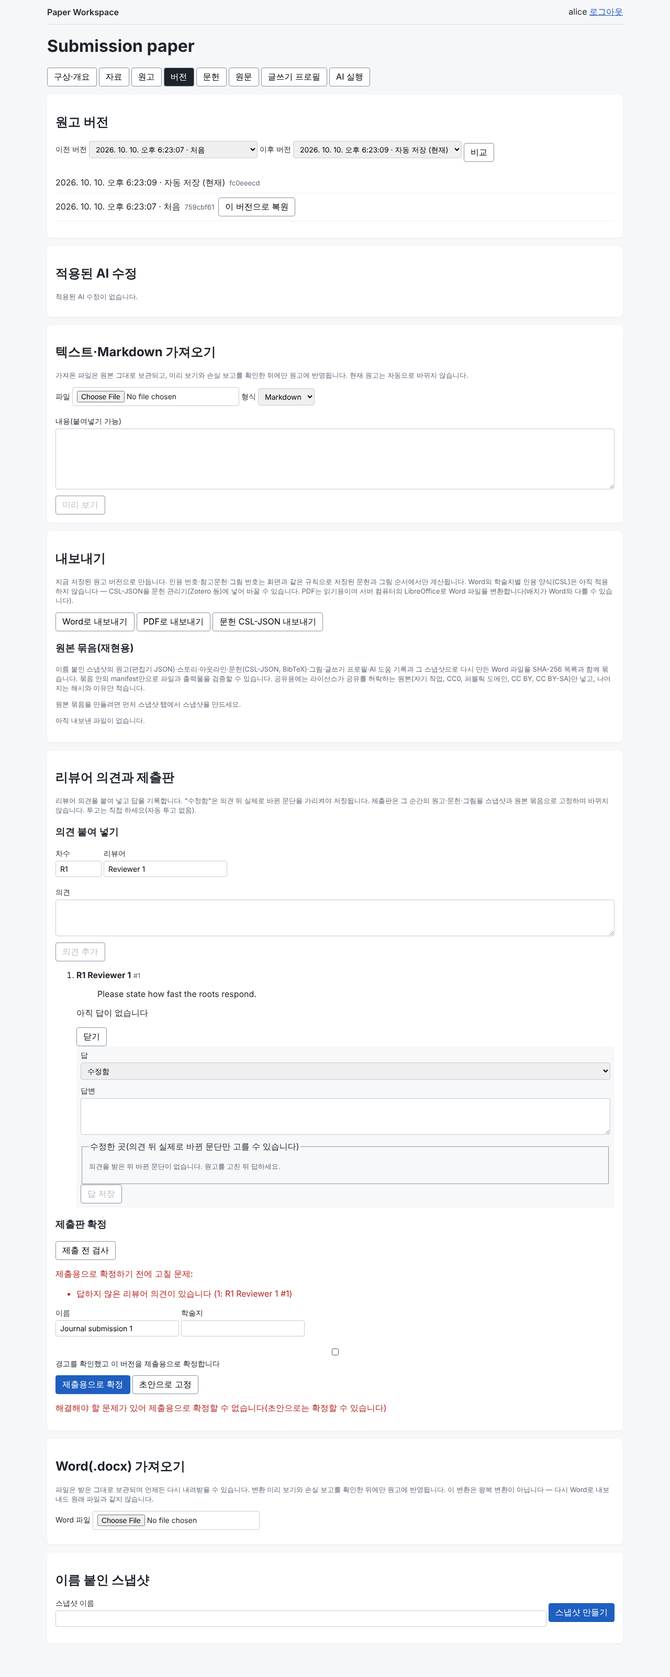
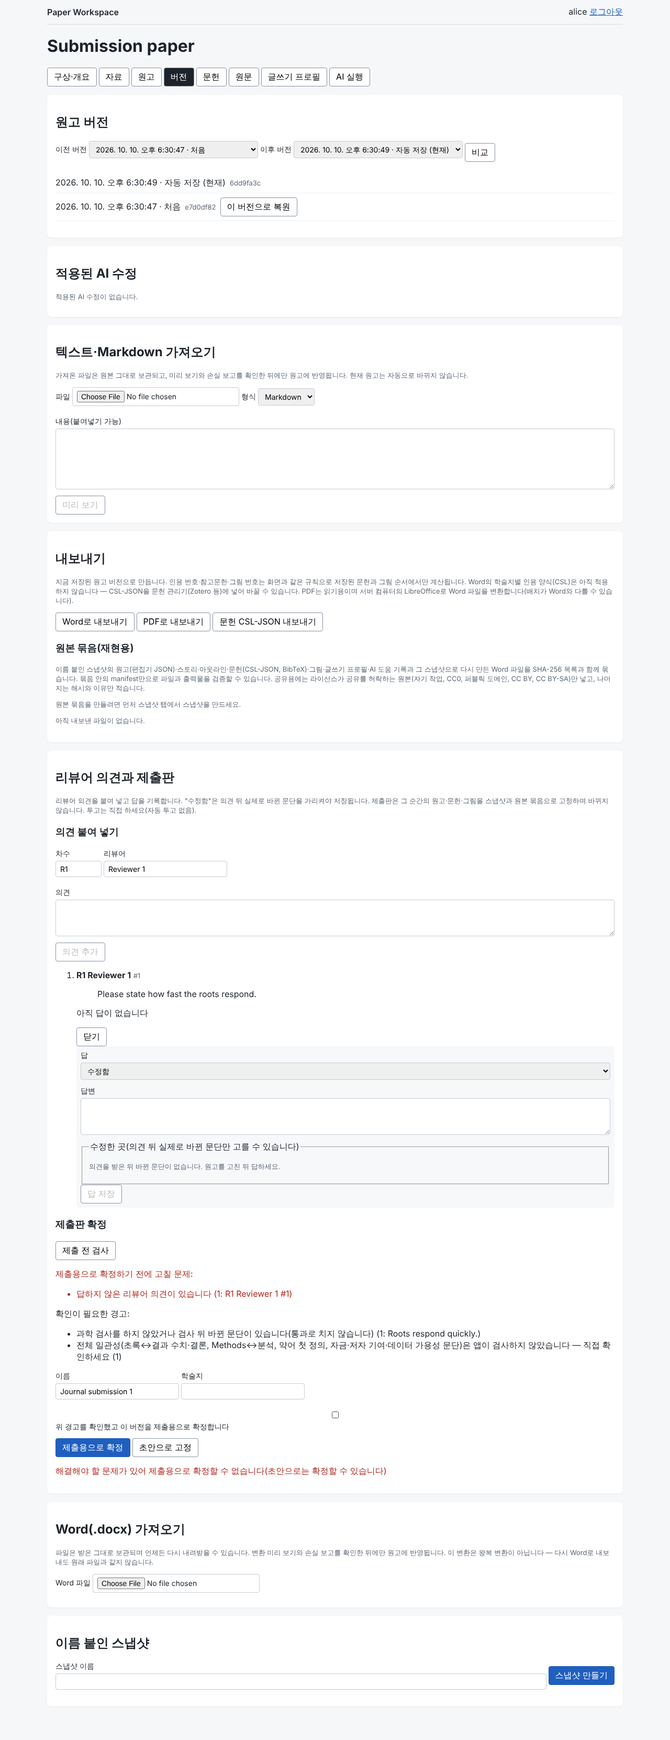
PW-058: apply review (m1 unchecked paragraphs, m2 placeholders and consistency note, m3 per-kind confirmation, n1 single-line names)
- Every paragraph never checked, or checked on other wording, gives a
  scientific_check_not_run warning; UNKNOWN on the same wording a warning.
- Placeholders (TODO, TBD, FIXME, ???, [needs_input], [citation needed],
  [?]) block submission-ready; "XX" warns; the whole-document consistency
  the app does not check is always stated (consistency_not_checked).
- confirm_warnings is the list of warning kinds the owner saw; any other
  warning at the final gate is refused (CONFIRM_WARNINGS, unconfirmed).
- Labels, targets, rounds and reviewers are single lines; the response
  table escapes the heading.

Claude-Session: https://claude.ai/code/session_01EeZdb6b7qndTXCACBK8Dee

diff --git a/packages/domain/src/submissions/index.ts b/packages/domain/src/submissions/index.ts
@@ -30,17 +30,19 @@ export interface Link { revision_id: string; block_id: string; change: 'changed'
 // ---- blocks of a stored revision -------------------------------------------------------------------------
 type Node = { type?: string; text?: string; attrs?: Record<string, unknown>; content?: Node[] };
 const textOf = (n: Node): string => (n.type === 'text' ? n.text ?? '' : n.type === 'citation' ? '[cite]' : n.type === 'figure_ref' ? '[fig]' : (n.content ?? []).map(textOf).join(n.type === 'table_row' ? ' | ' : ''));
-interface Block { hash: string; text: string; heading: string | null }
+interface Block { hash: string; text: string; heading: string | null; paragraph: boolean }
 export function blocksOf(content: unknown): Map<string, Block> {
   const out = new Map<string, Block>();
   let heading: string | null = null;
   for (const b of ((content as Node)?.content ?? [])) {
     const id = b.attrs?.id;
     if (b.type === 'heading') heading = textOf(b).trim() || heading;
-    if (typeof id === 'string') out.set(id, { hash: contentHash(b), text: textOf(b).trim(), heading: b.type === 'heading' ? textOf(b).trim() : heading });
+    if (typeof id === 'string') out.set(id, { hash: contentHash(b), text: textOf(b).trim(), heading: b.type === 'heading' ? textOf(b).trim() : heading, paragraph: b.type === 'paragraph' });
   }
   return out;
 }
+const PLACEHOLDER = /\bTODO\b|\bTBD\b|\bFIXME\b|\?\?\?+|\[needs_input\]|\[citation needed\]|\[\s*\?\s*\]/gi;
+const XX = /(?<![A-Za-z])XX(?![A-Za-z])/;
 const clip = (s: string, n = 300) => (s.length > n ? `${s.slice(0, n)}…` : s);
 
 async function revisionContent(db: Queryable, paperId: string, documentId: string, revisionId: string): Promise<unknown | null> {
@@ -74,11 +76,18 @@ const label = (v: unknown, field: string, max: number) => {
   if (typeof v !== 'string' || !v.trim() || v.length > max || !storable(v)) throw new DomainError('INVALID', `${field} must be 1–${max} characters`, field);
   return v.trim();
 };
+// a name on one line (labels end up in headings and table cells; review n1)
+const line = (v: unknown, field: string, max: number) => {
+  const x = label(v, field, max);
+  // eslint-disable-next-line no-control-regex -- control characters are refused on purpose
+  if (/[\u0000-\u001f\u007f\u2028\u2029]/.test(x)) throw new DomainError('INVALID', `${field} must be a single line`, field);
+  return x;
+};
 
 export async function addComment(pool: TxPool, a: { paperId: string; ownerId: string; body: unknown }): Promise<Comment> {
   const b = (a.body && typeof a.body === 'object' ? a.body : {}) as Record<string, unknown>;
-  const round = label(b.round ?? 'R1', 'round', 40);
-  const reviewer = label(b.reviewer, 'reviewer', 80);
+  const round = line(b.round ?? 'R1', 'round', 40);
+  const reviewer = line(b.reviewer, 'reviewer', 80);
   const text = label(b.text, 'text', 20000);
   return inTransaction(pool, async (tx) => {
     await tx.query("SELECT set_config('pw.actor', $1, true)", [`owner:${a.ownerId}`]);
@@ -194,6 +203,10 @@ const NOTE: Record<string, string> = {
   open_scientific_finding: '결정하지 않은 과학 검토 지적이 그대로인 문단에 있습니다',
   open_finding_stale: '결정하지 않은 검토 지적이 있던 문단이 그 뒤 바뀌었습니다',
   open_writing_finding: '결정하지 않은 글쓰기 검토 지적이 있습니다',
+  scientific_check_not_run: '과학 검사를 하지 않았거나 검사 뒤 바뀐 문단이 있습니다(통과로 치지 않습니다)',
+  placeholder_text: '채워 넣지 않은 자리표시(TODO, TBD, ???, [needs_input] 등)가 남아 있습니다',
+  placeholder_like_xx: '"XX"가 있습니다 — 채워 넣을 자리인지 확인하세요(염색체 표기 등이면 그대로 두세요)',
+  consistency_not_checked: '전체 일관성(초록↔결과 수치·결론, Methods↔분석, 약어 첫 정의, 자금·저자 기여·데이터 가용성 문단)은 앱이 검사하지 않았습니다 — 직접 확인하세요',
   archive_incomplete: '원본 묶음에 빠진 원본이 있습니다',
   archive_unverified: '원본 묶음이 자체 검증을 통과하지 못했습니다',
 };
@@ -225,15 +238,23 @@ export async function checks(db: Queryable, a: { paperId: string; documentId: st
     if (!cache.has(revisionId)) cache.set(revisionId, blocksOf(await revisionContent(db, a.paperId, a.documentId, revisionId)));
     return cache.get(revisionId)!.get(blockId)?.hash ?? null;
   };
-  const runs = (await db.query<{ block_id: string; revision_id: string; status: string }>(
-    `SELECT DISTINCT ON (block_id) block_id, revision_id, status FROM scientific_check_runs WHERE paper_id = $1 AND document_id = $2 ORDER BY block_id, created_at DESC, id DESC`, [a.paperId, a.documentId])).rows;
-  for (const r of runs) {
-    const cur = now.get(r.block_id);
-    if (!cur || (r.status !== 'FAILED' && r.status !== 'UNKNOWN')) continue;
-    const same = (await asRead(r.revision_id, r.block_id)) === cur.hash;
+  const runs = new Map((await db.query<{ block_id: string; revision_id: string; status: string }>(
+    `SELECT DISTINCT ON (block_id) block_id, revision_id, status FROM scientific_check_runs WHERE paper_id = $1 AND document_id = $2 ORDER BY block_id, created_at DESC, id DESC`, [a.paperId, a.documentId])).rows.map((r) => [r.block_id, r]));
+  // every paragraph as it stands: a check that failed on this wording blocks; never checked, or checked on
+  // other wording, or undecided, is not a pass (review m1)
+  for (const [id, cur] of now) {
+    if (!cur.paragraph || !cur.text) continue;
+    const r = runs.get(id);
     const where = clip(cur.text, 80);
-    if (r.status === 'FAILED') (same ? blocking : warnings).add(same ? 'scientific_check_failed' : 'scientific_check_stale', where);
-    else if (same) warnings.add('scientific_check_unknown', where);
+    const same = r ? (await asRead(r.revision_id, id)) === cur.hash : false;
+    if (r?.status === 'FAILED') (same ? blocking : warnings).add(same ? 'scientific_check_failed' : 'scientific_check_stale', where);
+    else if (r?.status === 'UNKNOWN' && same) warnings.add('scientific_check_unknown', where);
+    else if (!r || !same) warnings.add('scientific_check_not_run', where);
+  }
+  // text left to fill in (review m2)
+  for (const cur of now.values()) {
+    for (const m of cur.text.match(PLACEHOLDER) ?? []) blocking.add('placeholder_text', m);
+    if (XX.test(cur.text)) warnings.add('placeholder_like_xx', clip(cur.text, 80));
   }
   const findings = (await db.query<{ kind: string; block_id: string; revision_id: string; quote: string }>(
     `SELECT f.kind, r.block_id, r.revision_id, f.quote FROM review_findings f JOIN review_runs r ON r.id = f.run_id AND r.paper_id = f.paper_id
@@ -245,6 +266,8 @@ export async function checks(db: Queryable, a: { paperId: string; documentId: st
     if (!same) warnings.add('open_finding_stale', clip(f.quote, 80));
     else (f.kind === 'scientific' ? blocking : warnings).add(f.kind === 'scientific' ? 'open_scientific_finding' : 'open_writing_finding', clip(f.quote, 80));
   }
+  // what the app does not check is said, every time (spec 10 "전체 일관성 검사"; review m2)
+  warnings.add('consistency_not_checked');
   return { blocking: blocking.list(), warnings: warnings.list() };
 }
 
@@ -272,14 +295,17 @@ export async function freezeSubmission(pool: TxPool, a: { paperId: string; owner
   if (b.intent !== 'freeze_submission') throw new DomainError('INVALID', 'freezing needs the explicit intent "freeze_submission"', 'intent');
   if (b.status !== 'draft' && b.status !== 'submission_ready') throw new DomainError('INVALID', 'status must be draft or submission_ready', 'status');
   const ready = b.status === 'submission_ready';
-  const name = label(b.label, 'label', 200);
-  const target = b.target === undefined || b.target === null ? null : label(b.target, 'target', 200);
-  if (b.confirm_warnings !== undefined && typeof b.confirm_warnings !== 'boolean') throw new DomainError('INVALID', 'confirm_warnings must be true or false', 'confirm_warnings');
+  const name = line(b.label, 'label', 200);
+  const target = b.target === undefined || b.target === null ? null : line(b.target, 'target', 200);
+  // the warning kinds the owner saw and confirmed; a warning that was not shown is not confirmed (review m3)
+  const confirmed = b.confirm_warnings ?? [];
+  if (!Array.isArray(confirmed) || confirmed.length > 50 || confirmed.some((k) => typeof k !== 'string' || k.length > 60)) throw new DomainError('INVALID', 'confirm_warnings must be the list of warning kinds the owner confirmed', 'confirm_warnings');
   const h = await head(pool, a.paperId, b.document_id);
   if (b.expected_revision_id !== h.revision_id) throw refuse('STALE', 'the manuscript changed since it was checked; check again', { head_revision_id: h.revision_id });
   const gate = (c: Checks) => {
     if (ready && c.blocking.length) throw refuse('NOT_SUBMISSION_READY', '해결해야 할 문제가 있어 제출용으로 확정할 수 없습니다(초안으로는 확정할 수 있습니다)', { blocking: c.blocking, warnings: c.warnings });
-    if (ready && c.warnings.length && b.confirm_warnings !== true) throw refuse('CONFIRM_WARNINGS', '경고를 확인해야 제출용으로 확정할 수 있습니다', { warnings: c.warnings });
+    const unseen = c.warnings.filter((w) => !(confirmed as string[]).includes(w.kind));
+    if (ready && unseen.length) throw refuse('CONFIRM_WARNINGS', '경고를 확인해야 제출용으로 확정할 수 있습니다', { warnings: c.warnings, unconfirmed: unseen.map((w) => w.kind) });
   };
   gate(await checks(pool, { paperId: a.paperId, documentId: h.document_id, content: h.content, report: await deps.render(h) }));
   // frozen: the snapshot pins the revisions; checked again on the archive's own render
@@ -324,8 +350,8 @@ export function responseTable(s: Submission): string {
     return `| ${r.position} | ${cell(`${r.round} ${r.reviewer}`)} | ${cell(r.comment)} | ${r.status ? STATUS_KO[r.status] ?? r.status : '답 없음'} | ${cell(r.response ?? '')} | ${cell(where)} |`;
   });
   return [
-    `# ${s.label}`, '',
-    `- 상태: ${s.status === 'submission_ready' ? '제출용 확정' : '초안'}${s.target ? ` · 대상: ${s.target}` : ''}`,
+    `# ${cell(s.label)}`, '',
+    `- 상태: ${s.status === 'submission_ready' ? '제출용 확정' : '초안'}${s.target ? ` · 대상: ${cell(s.target)}` : ''}`,
     `- 원고 버전: ${s.revision_id} · DOCX SHA-256: ${s.docx_sha256}`, '',
     '| # | 리뷰어 | 의견 | 답 | 답변 | 수정한 곳 |', '|---|---|---|---|---|---|', ...rows, '',
   ].join('\n');

diff --git a/tests/tasks/PW-058/submission.int.test.ts b/tests/tasks/PW-058/submission.int.test.ts
@@ -86,6 +86,8 @@ const respond = (w: W, commentId: string, b: Record<string, unknown>) => call('P
 const check = (w: W) => call('POST', `/api/papers/${w.paperId}/submissions/check`, { document_id: w.documentId });
 const freeze = (w: W, o: Record<string, unknown> = {}) => call('POST', `/api/papers/${w.paperId}/submissions`, { intent: 'freeze_submission', document_id: w.documentId, expected_revision_id: w.head, status: 'submission_ready', label: 'Journal of Plant Studies, first submission', target: 'Journal of Plant Studies', ...o });
 const kinds = (xs: { kind: string }[]) => xs.map((x) => x.kind);
+// submission-ready with exactly the warnings the check showed confirmed
+const freezeReady = async (w: W, o: Record<string, unknown> = {}) => freeze(w, { confirm_warnings: kinds((await check(w)).json().warnings), ...o });
 
 describe('TST-058A: responses tied to real edits; the frozen submission never changes', () => {
   test('a comment records the revision it was made on; "addressed" needs a changed block in a later revision', async () => {
@@ -138,7 +140,7 @@ describe('TST-058A: responses tied to real edits; the frozen submission never ch
     await save(w, body(w, 'Roots respond within two hours'));
     expect((await respond(w, c.id, { status: 'addressed', text: 'We now give the timing.', links: [{ revision_id: w.head, block_id: w.P1 }] })).statusCode).toBe(201);
     const frozenHead = w.head;
-    const r = await freeze(w);
+    const r = await freezeReady(w);
     expect(r.statusCode, r.body).toBe(201);
     const s = r.json();
     expect(s).toMatchObject({ status: 'submission_ready', revision_id: frozenHead, document_id: w.documentId, label: 'Journal of Plant Studies, first submission', target: 'Journal of Plant Studies', checks: { blocking: [] } });
@@ -225,21 +227,55 @@ describe('TST-058B: never "changed" for unchanged text; never submission-ready w
     expect(kinds(k.blocking)).toContain('open_scientific_finding');
   });
 
-  test('warnings need the owner\'s confirmation; a stale expected revision, a missing intent or another owner are refused', async () => {
+  test('warnings need the owner\'s confirmation of each kind shown; a stale expected revision, a missing intent or another owner are refused', async () => {
     const w = await paper({ year: null }); // a reference without a year: a warning, not a blocker
     const k = (await check(w)).json();
     expect(k.blocking).toEqual([]);
-    expect(kinds(k.warnings)).toContain('incomplete_reference');
+    expect(kinds(k.warnings)).toEqual(expect.arrayContaining(['incomplete_reference', 'scientific_check_not_run', 'consistency_not_checked']));
     const r = await freeze(w);
     expect(r.statusCode).toBe(409);
     expect(r.json()).toMatchObject({ reason: 'CONFIRM_WARNINGS', warnings: expect.arrayContaining([expect.objectContaining({ kind: 'incomplete_reference' })]) });
-    expect((await freeze(w, { expected_revision_id: randomUUID(), confirm_warnings: true })).json()).toMatchObject({ reason: 'STALE' });
-    expect((await freeze(w, { intent: undefined, confirm_warnings: true })).statusCode).toBe(422);
-    expect((await freeze(w, { status: 'final', confirm_warnings: true })).statusCode).toBe(422);
-    expect((await call('POST', `/api/papers/${w.paperId}/submissions`, { intent: 'freeze_submission', document_id: w.documentId, expected_revision_id: w.head, status: 'submission_ready', label: 'x', confirm_warnings: true }, 'bob')).statusCode).toBe(404);
-    const ok = await freeze(w, { confirm_warnings: true });
+    // review m3: confirming some kinds is not confirming all; a blanket "yes" is not accepted
+    const part = await freeze(w, { confirm_warnings: ['incomplete_reference'] });
+    expect(part.statusCode).toBe(409);
+    expect(part.json().unconfirmed).toEqual(expect.arrayContaining(['scientific_check_not_run', 'consistency_not_checked']));
+    expect((await freeze(w, { confirm_warnings: true })).statusCode).toBe(422);
+    const all = kinds(k.warnings);
+    expect((await freeze(w, { expected_revision_id: randomUUID(), confirm_warnings: all })).json()).toMatchObject({ reason: 'STALE' });
+    expect((await freeze(w, { intent: undefined, confirm_warnings: all })).statusCode).toBe(422);
+    expect((await freeze(w, { status: 'final', confirm_warnings: all })).statusCode).toBe(422);
+    // review n1: names are single lines
+    expect((await freeze(w, { label: 'R2\n\n| fake | row |', confirm_warnings: all })).statusCode).toBe(422);
+    expect((await call('POST', `/api/papers/${w.paperId}/submissions`, { intent: 'freeze_submission', document_id: w.documentId, expected_revision_id: w.head, status: 'submission_ready', label: 'x', confirm_warnings: all }, 'bob')).statusCode).toBe(404);
+    const ok = await freeze(w, { confirm_warnings: all });
     expect(ok.statusCode, ok.body).toBe(201);
     expect(ok.json()).toMatchObject({ status: 'submission_ready', checks: { blocking: [], warnings: expect.arrayContaining([expect.objectContaining({ kind: 'incomplete_reference' })]) }, confirmed_by: expect.any(String) });
+  });
+
+  test('review m1: a paragraph never checked, or checked on other wording, is not a pass', async () => {
+    const w = await paper();
+    const owner = (await pool.query('SELECT owner_id FROM paper_projects WHERE id = $1', [w.paperId])).rows[0].owner_id;
+    const notRun = async () => ((await check(w)).json().warnings as { kind: string; count: number }[]).find((x) => x.kind === 'scientific_check_not_run')?.count ?? 0;
+    expect(await notRun()).toBe(2); // both paragraphs
+    await pool.query(`INSERT INTO scientific_check_runs (paper_id, document_id, revision_id, block_id, gate_version, status, findings, created_by) VALUES ($1, $2, $3, $4, 'synthetic-1', 'VERIFIED', '[]', $5)`, [w.paperId, w.documentId, w.head, w.P1, owner]);
+    expect(await notRun()).toBe(1);
+    await save(w, body(w, 'Roots respond within two hours'));
+    expect(await notRun()).toBe(2); // checked on other wording
+    // an undecided check on other wording is not a pass either
+    await pool.query(`INSERT INTO scientific_check_runs (paper_id, document_id, revision_id, block_id, gate_version, status, findings, created_by) VALUES ($1, $2, $3, $4, 'synthetic-1', 'UNKNOWN', '[]', $5)`, [w.paperId, w.documentId, w.head, w.P2, owner]);
+    expect(kinds((await check(w)).json().warnings)).toContain('scientific_check_unknown');
+    await save(w, body(w, 'Roots respond within two hours', [], 'The second paragraph changed.'));
+    expect(await notRun()).toBe(2);
+  });
+
+  test('review m2: text left to fill in blocks; "XX" asks; the unchecked whole-document consistency is always said', async () => {
+    const w = await paper();
+    await save(w, body(w, 'Roots respond in TODO hours', [], 'XX patients were enrolled [needs_input].'));
+    const k = (await check(w)).json();
+    const p = (k.blocking as { kind: string; examples: string[] }[]).find((x) => x.kind === 'placeholder_text')!;
+    expect(p.examples).toEqual(expect.arrayContaining(['TODO', '[needs_input]']));
+    expect(kinds(k.warnings)).toEqual(expect.arrayContaining(['placeholder_like_xx', 'consistency_not_checked']));
+    expect((await freezeReady(w)).statusCode).toBe(409);
   });
 
   test('the database refuses a submission-ready row with a blocker', async () => {

diff --git a/apps/web/src/features/submission/SubmissionPanel.tsx b/apps/web/src/features/submission/SubmissionPanel.tsx
@@ -100,7 +100,8 @@ export function SubmissionPanel({ paperId, documentId, headRevisionId, canChange
     } finally { setBusy(false); await load(); }
   };
   const freeze = (status: 'draft' | 'submission_ready') => act(async () => {
-    await api('POST', `/api/papers/${paperId}/submissions`, { intent: 'freeze_submission', document_id: documentId, expected_revision_id: headRevisionId, status, label, target: target || null, confirm_warnings: confirm });
+    // only the warnings shown here are confirmed; any other one sends the owner back to look at it
+    await api('POST', `/api/papers/${paperId}/submissions`, { intent: 'freeze_submission', document_id: documentId, expected_revision_id: headRevisionId, status, label, target: target || null, confirm_warnings: confirm && checks ? checks.warnings.map((w) => w.kind) : [] });
     setChecks(null);
     setConfirm(false);
   });
@@ -147,7 +148,7 @@ export function SubmissionPanel({ paperId, documentId, headRevisionId, canChange
         <label>이름<input value={label} onChange={(e) => setLabel(e.target.value)} data-testid="submission-label" /></label>
         <label>학술지<input value={target} onChange={(e) => setTarget(e.target.value)} /></label>
       </div>
-      <label><input type="checkbox" checked={confirm} onChange={(e) => setConfirm(e.target.checked)} data-testid="confirm-warnings" /> 경고를 확인했고 이 버전을 제출용으로 확정합니다</label>
+      <label><input type="checkbox" checked={confirm} disabled={!checks || checks.warnings.length === 0} onChange={(e) => setConfirm(e.target.checked)} data-testid="confirm-warnings" /> 위 경고를 확인했고 이 버전을 제출용으로 확정합니다</label>
       <div className="toolbar">
         <button type="button" className="primary" disabled={busy || !canChange || !label.trim()} onClick={() => void freeze('submission_ready')}>제출용으로 확정</button>
         <button type="button" disabled={busy || !canChange || !label.trim()} onClick={() => void freeze('draft')}>초안으로 고정</button>

diff --git a/tests/tasks/PW-058/table.test.ts b/tests/tasks/PW-058/table.test.ts
@@ -21,7 +21,7 @@ describe('blocks and the response table', () => {
     expect(blocksOf(null).size).toBe(0);
   });
   test('the table escapes pipes and line breaks, says what was not answered and where a claimed change is missing', () => {
-    const s = { label: 'J1', target: 'Journal', status: 'draft', revision_id: 'r', docx_sha256: 'a'.repeat(64), responses: [
+    const s = { label: 'J1 | x', target: 'Journal', status: 'draft', revision_id: 'r', docx_sha256: 'a'.repeat(64), responses: [
       { position: 1, round: 'R1', reviewer: 'Rev | 1', comment: 'line one\nline | two', status: 'addressed', response: 'done', links: [{ heading: 'Results', change: 'changed', holds: false }] },
       { position: 2, round: 'R1', reviewer: 'Rev 2', comment: 'x', status: null, response: null, links: [] },
     ] } as unknown as Submission;
@@ -32,6 +32,7 @@ describe('blocks and the response table', () => {
     expect(rows[0]).toContain('Results (changed, 지금 원고에 없음)');
     expect(rows[1]).toContain('답 없음');
     expect(md).toContain('상태: 초안');
+    expect(md.split('\n')[0]).toBe('# J1 \\| x');
     for (const r of rows) expect(r.split(/(?<!\\)\|/).length).toBe(8); // 6 cells
   });
 });

diff --git a/tests/tasks/PW-058/submission.e2e.ts b/tests/tasks/PW-058/submission.e2e.ts
@@ -59,7 +59,11 @@ test('TST-058A/B: comment → blocked freeze → edit → answer tied to the edi
   await expect(panel.getByTestId('response')).toContainText('수정함');
 
   await panel.getByRole('button', { name: '제출 전 검사' }).click();
-  await expect(panel.getByTestId('checks-clean')).toBeVisible();
+  // nothing blocks; what the app did not check is shown and must be confirmed
+  await expect(panel.getByTestId('blocking')).toHaveCount(0);
+  await expect(panel.locator('[data-testid="warnings"] [data-kind="scientific_check_not_run"]')).toBeVisible();
+  await expect(panel.locator('[data-testid="warnings"] [data-kind="consistency_not_checked"]')).toBeVisible();
+  await panel.getByTestId('confirm-warnings').check();
   await panel.getByRole('button', { name: '제출용으로 확정' }).click();
   const frozen = panel.getByTestId('frozen-submission');
   await expect(frozen).toHaveAttribute('data-status', 'submission_ready', { timeout: 30_000 });

diff --git a/reports/tasks/PW-058/REPORT.md b/reports/tasks/PW-058/REPORT.md
@@ -1,5 +1,5 @@
 # PW-058 — Reviewer·제출판 freeze — REPORT
-상태: in_review (2026-10-10)
+상태: in_review (2026-10-10) — 독립 리뷰 approve(MAJOR 없음; MINOR 3·NIT 3 → MINOR 3과 NIT 1 반영, NIT 2 기록)
 
 ## 무엇을 했나
 - **리뷰어 의견**(`review_comments`)
@@ -66,7 +66,7 @@
 |---|---|---|
 | REQ-058-A / TST-058A | 통합: 기준 revision 기록, 링크 없음·기준 revision·바뀌지 않은 블록·없는 블록·이전 revision·다른 논문 revision 거부, 바뀐 곳 목록(절 제목·전후), 확정 → 스냅샷 revision·묶음 DOCX 해시·trace·뒤 편집 무관·UPDATE/DELETE 거부, 답변표 | 통과 |
 | | 브라우저: 바뀐 문단만 고를 수 있음, 답 저장, 제출용 확정, 답변표·DOCX 해시 | 통과 |
-| REQ-058-B / TST-058B | 통합: 답 없는 의견 → 409(스냅샷 미생성) / 초안은 기록과 함께 고정, 되돌린 수정 → `claimed_change_missing`·`holds_now=false`, RFC-008 미해결 인용·그림 목록, 과학 검사 FAILED·미결정 과학 지적 → 막음 / 문단 변경 뒤 경고, 경고 확인 필요, STALE·intent 없음·잘못된 상태·다른 사용자 거부, DB CHECK | 통과 |
+| REQ-058-B / TST-058B | 통합(리뷰 반영 뒤 11): 검사 안 한 문단·자리표시·전체 일관성 미검사 경고, 경고 종류별 확인; 답 없는 의견 → 409(스냅샷 미생성) / 초안은 기록과 함께 고정, 되돌린 수정 → `claimed_change_missing`·`holds_now=false`, RFC-008 미해결 인용·그림 목록, 과학 검사 FAILED·미결정 과학 지적 → 막음 / 문단 변경 뒤 경고, 경고 확인 필요, STALE·intent 없음·잘못된 상태·다른 사용자 거부, DB CHECK | 통과 |
 | | 브라우저: 답 없는 의견으로 제출용 확정 거부·사유 표시, 바뀐 문단 없으면 "수정함" 저장 불가 | 통과 |
 
 ## RED → GREEN
@@ -91,6 +91,24 @@
 - 리뷰어 의견 가져오기(파일)와 Word 변경 추적 왕복은 없다(spec 10: 동일하지 않음 명시).
 - 확정 중 head 검사는 통과했는데 묶음 재검사에서 거절되면 스냅샷과 묶음이 남는다(드묾. 기록으로 남는 것은 해가 없다).
 - 학술지 CSL 양식은 여전히 없다(PW-056 결정).
+
+## 독립 리뷰(approve) — 반영
+- **m1**: 과학 검사를 하지 않은 문단, 검사 뒤 바뀐 문단, 다른 글에서 UNKNOWN이었던 문단이 통과로 쳐졌다.
+  - 이제 모든 문단마다 `scientific_check_not_run` 경고를 낸다(확인 필요).
+  - 같은 글의 UNKNOWN은 `scientific_check_unknown`이다(시험).
+- **m2**: spec 10 "전체 일관성 검사"가 없었고, 없다는 말도 없었다.
+  - 자리표시(TODO, TBD, FIXME, ???, `[needs_input]`, `[citation needed]`, `[?]`)는 막는다.
+  - "XX"는 경고다(염색체 표기 등 정상 용례가 있음).
+  - 초록↔결과, Methods, 약어, 자금·기여·데이터 가용성 등 전체 일관성은 앱이 검사하지 않는다. 그래서 `consistency_not_checked` 경고를 **늘** 내고 확인받는다(시험).
+- **m3**: 경고 확인이 일괄 "예"였다.
+  - 이제 `confirm_warnings`는 사용자가 본 경고 종류 목록이다.
+  - 마지막 검사(묶음 렌더)의 경고 중 목록에 없는 것이 있으면 `CONFIRM_WARNINGS`(`unconfirmed`)다.
+  - `true`는 거부한다(422).
+  - 화면은 표시한 경고 종류만 보낸다(시험).
+- **n1**: 이름(제출판·대상·차수·리뷰어)은 한 줄만 받는다. 답변표 제목과 대상도 escape한다(시험).
+- **n2**(기록): 아무 편집이나 "바뀜"으로 인정된다(서식만 바꾼 것 포함). 의미 판단은 하지 않는다. 답변표에 전후 글을 넣는 것은 후속 과제다.
+- **n3**(기록): 마지막 검사와 저장 사이에 들어온 의견·답은 그 제출판 trace에 없다. "그 순간에 고정"과 같은 뜻이고, 좁은 경합이다.
+- 반영 확인 mutation 6종 모두 탐지.
 
 ## 다음
 PW-059(보안 감사)
